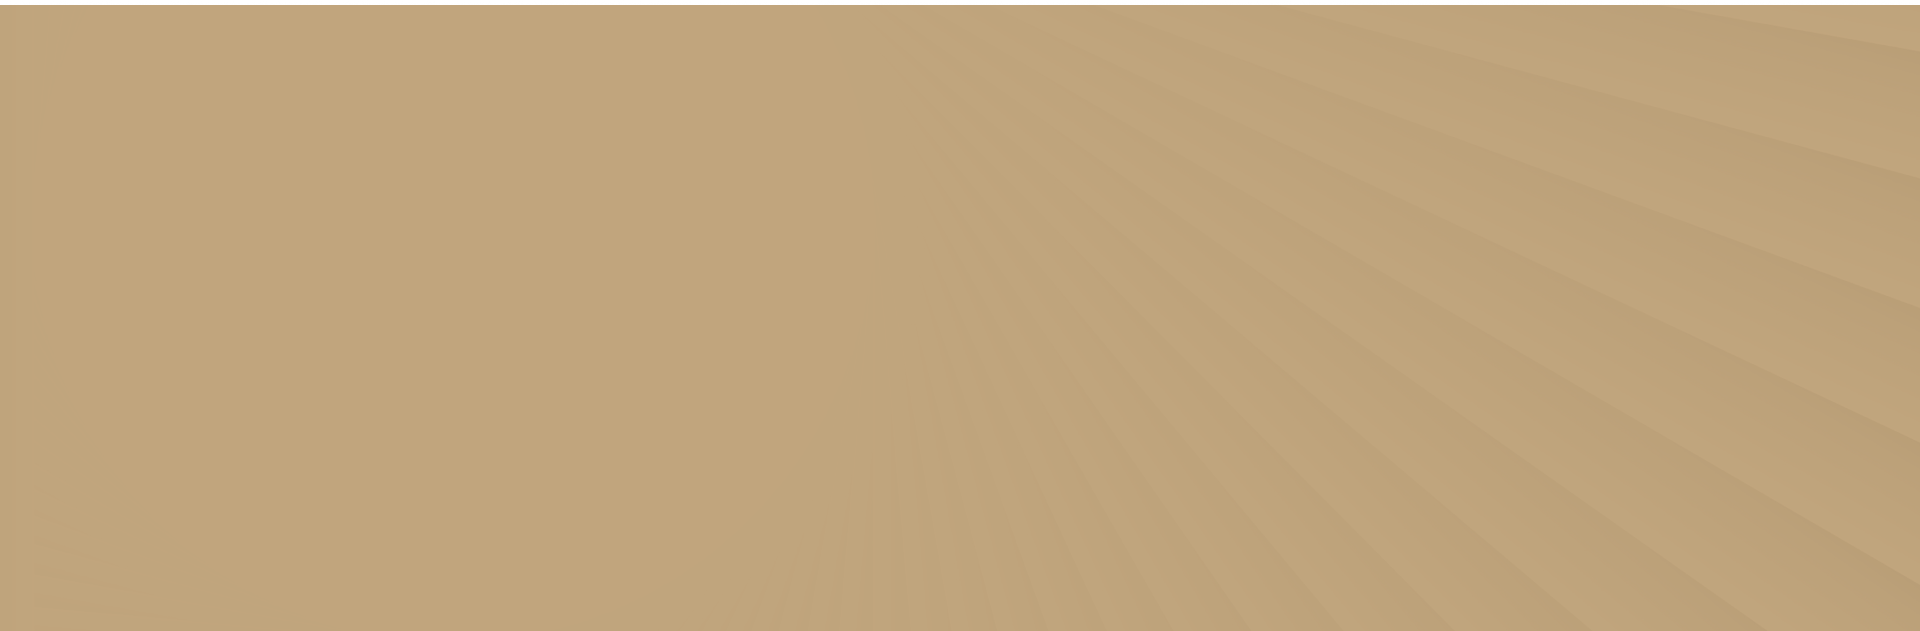
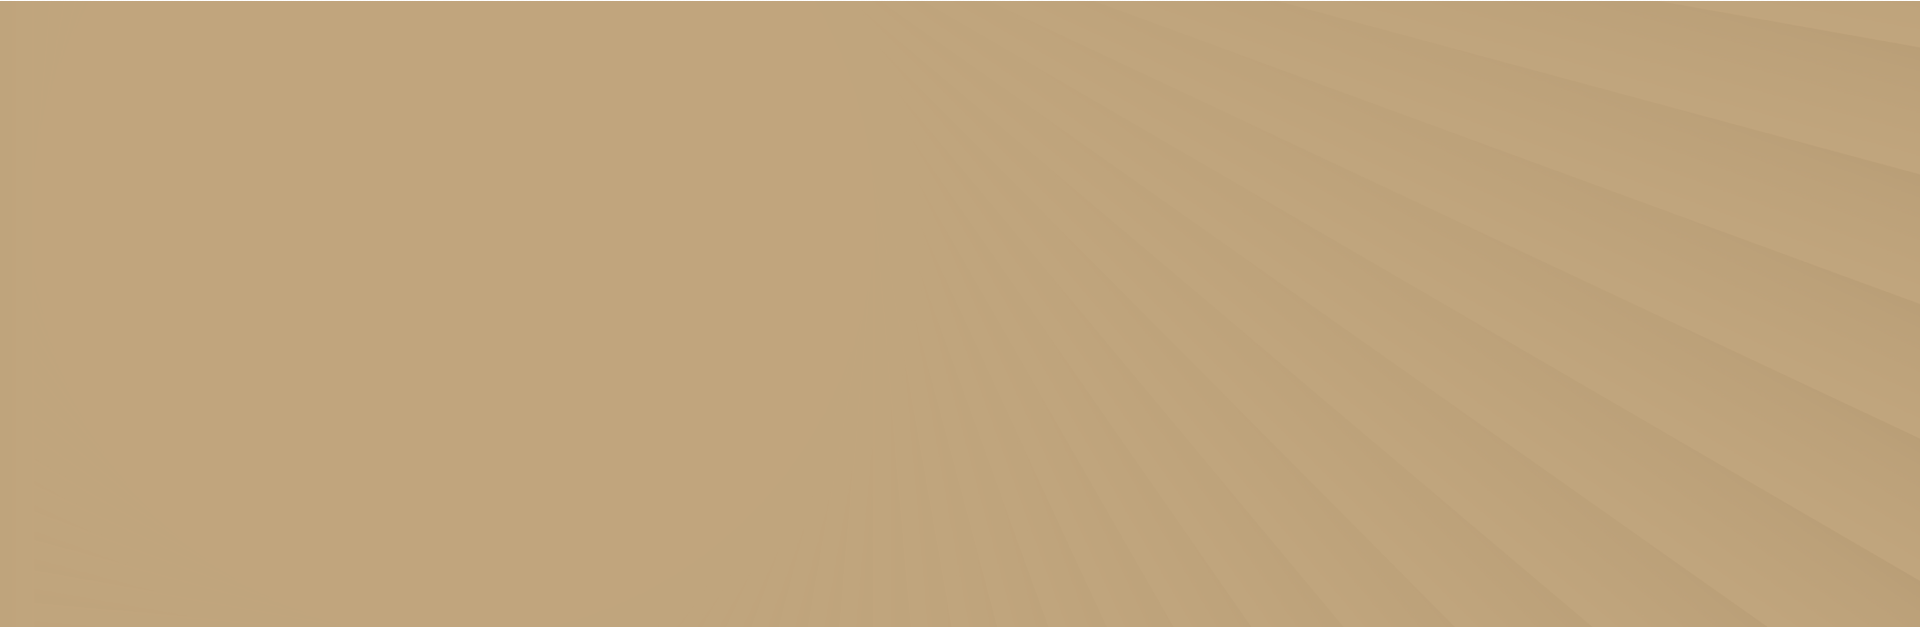
fix: footer

Changed region(s): [[0.0, 0.0, 1.0, 0.0303]]

diff --git a/src/app/_components/Footer/index.tsx b/src/app/_components/Footer/index.tsx
@@ -13,7 +13,7 @@ const Footer = ({ copyRights, links, locationCard, socialMediaLinks, whereToGoNe
         <WhereToGoNext className='w-full' whereToGoNextCards={whereToGoNextCards} />
       </section>
       <section className='flex flex-col justify-center items-start desktop:grid desktop:grid-cols-8 desktop:grid-rows-5  gap-[9.32vw] tablet:gap-[5vw] desktop:gap-[1.56vw]'>
-        <Image src='/images/shared/primary-bg.png' alt='bg' width={1920} height={631} className='w-[100vw] h-[80%] tablet:h-[85%] desktop:h-[60%] absolute bottom-0 left-0' />
+        <Image src='/images/shared/primary-bg.png' alt='bg' width={1920} height={631} className='w-[100vw] h-[80%] tablet:h-[85%] desktop:h-[60%] object-cover absolute bottom-0 left-0' />
         <LocationCard {...locationCard} className='desktop:col-span-3 desktop:row-span-5 w-full desktop:max-w-[28.756vw]' />
         <WhereToGoNext className='hidden desktop:flex w-full col-span-5 row-span-2' whereToGoNextCards={whereToGoNextCards} />
         <FooterLinks contactUsButton={contactUsButton} links={links} socialMediaLinks={socialMediaLinks} className='col-span-5 w-full row-span-3 ' />

diff --git a/src/app/_components/Footer/components/LocationCard.tsx b/src/app/_components/Footer/components/LocationCard.tsx
@@ -10,7 +10,7 @@ type Props = LocationCardProps & HTMLAttributes<HTMLElement>
 const LocationCard = ({ title, description, locationUrl, button, className }: Props) => {
   return (
     <div className={cn('bg-white px-[7.456vw] h-fit tablet:px-[4vw] desktop:px-[2.496vw] py-[6.524vw] tablet:py-[3.5vw] desktop:py-[2.236vw] border-primary-900 border w-full  flex flex-col tablet:flex-row desktop:flex-col gap-[3.262vw] tablet:gap-[4vw] desktop:gap-[1.092vw]', className)}>
-      <Link href={locationUrl} target='_blank' >
+      <Link href={locationUrl} target='_blank' className='shrink-0' >
         <Image src='/images/footer/location-on-map.png' alt='location map' width={455} height={413} className='w-[70.832vw] tablet:w-[27vw] desktop:w-[23.556vw] h-auto' />
       </Link>
       <div className='flex flex-col h-full  gap-[3.262vw] tablet:gap-[2.625vw] desktop:gap-[1.092vw]'>
